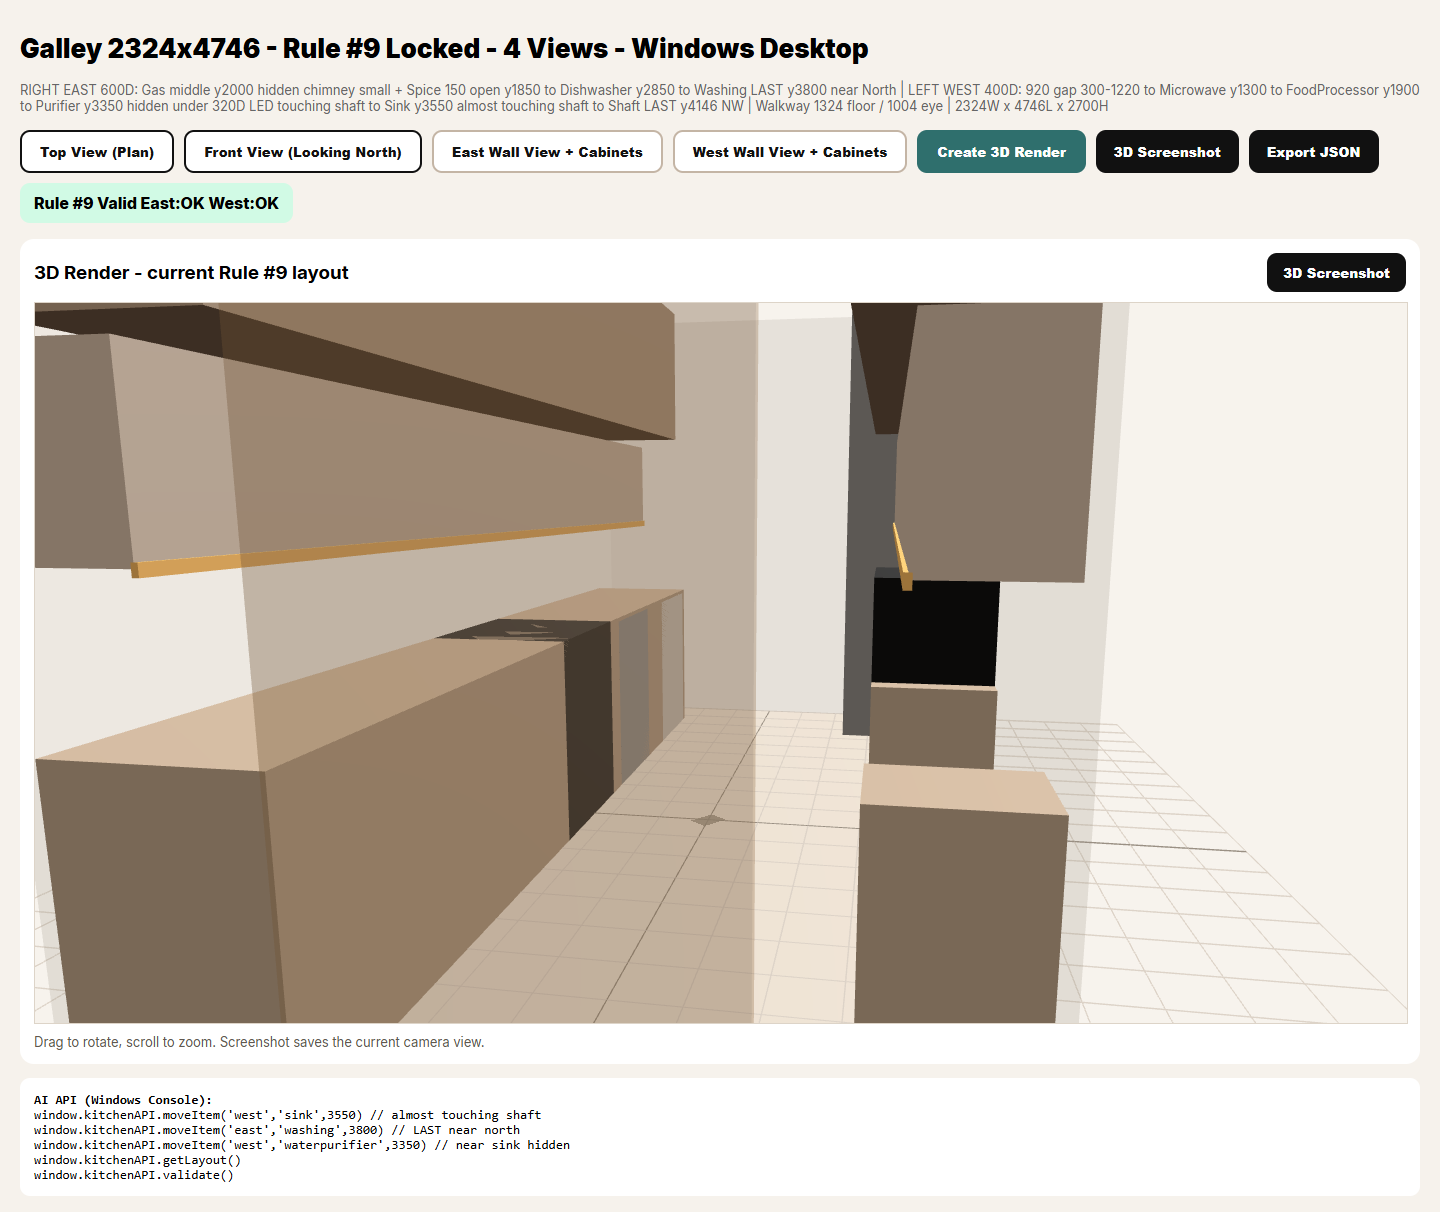
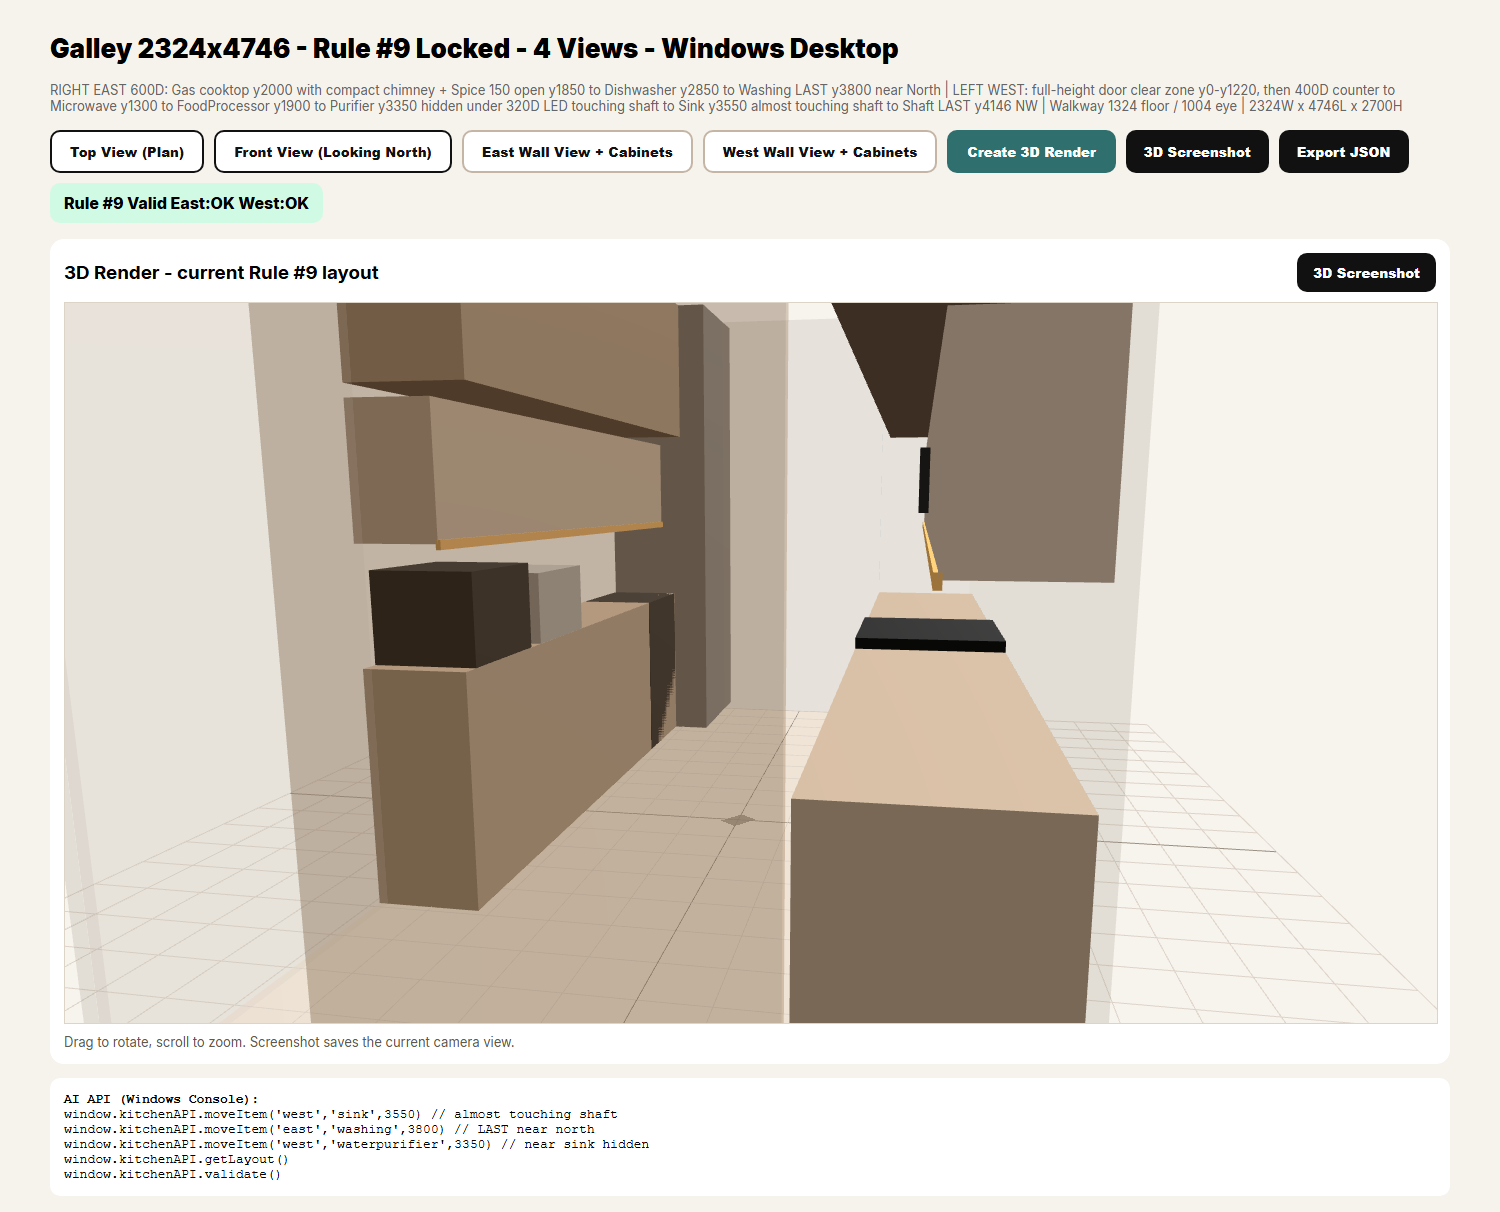
Fix 3D east west wall orientation

diff --git a/react-configurator/src/App.jsx b/react-configurator/src/App.jsx
@@ -45,7 +45,7 @@ export default function App(){
       const addBox=(name,x,y,z,w,d,h,c,opacity=1)=>{
         const mesh=new THREE.Mesh(new THREE.BoxGeometry(s(w),s(h),s(d)),material(c,opacity))
         mesh.name=name
-        mesh.position.set(s(x+w/2-KITCHEN.width/2),s(z+h/2),s(y+d/2-KITCHEN.length/2))
+        mesh.position.set(s(KITCHEN.width/2-(x+w/2)),s(z+h/2),s(y+d/2-KITCHEN.length/2))
         mesh.castShadow=true
         mesh.receiveShadow=true
         scene.add(mesh)
